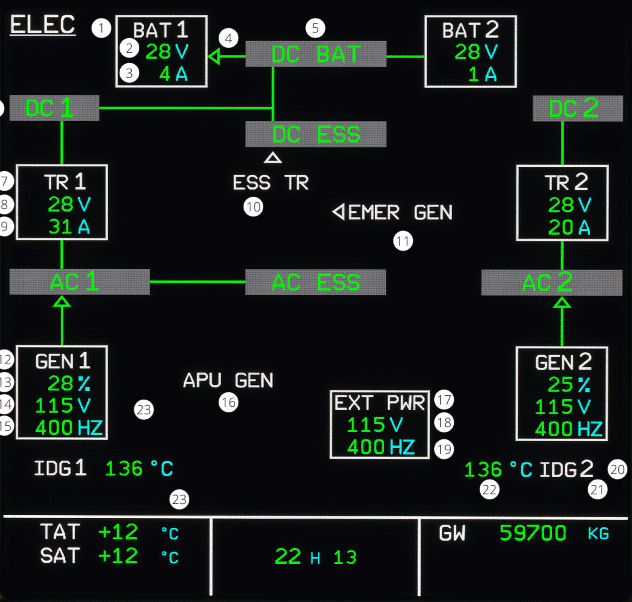
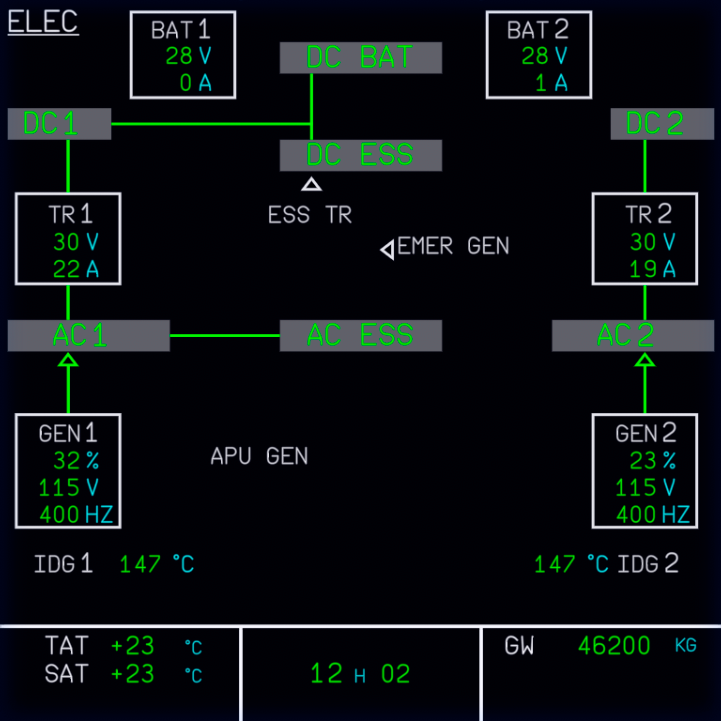
commit 2

diff --git a/src/Common/Displays/ECAM_SD/Shared/Base.tsx b/src/Common/Displays/ECAM_SD/Shared/Base.tsx
@@ -1,15 +1,87 @@
 import React from "react";
-import styled from "styled-components";
-import { createColorSheet } from "@/Theme/sheet";
+import styled, { useTheme } from "styled-components";
 
 const Frame = styled.g`
-  
+
 `;
 
 function Base () {
+  const color = useTheme().display;
+
   return (
-    <Frame>
-      <rect width={100} height={50} fill="white"/>
+    <Frame transform="translate(0 668)">
+      <path d="M4 0 H764 M256 0 v94 M512 0 v94"
+        strokeLinecap="round"
+        strokeWidth="3"
+        stroke={color.white}
+      />
+
+      <text
+        x="50"
+        y="28"
+      >TAT</text>
+      <text
+        x="50"
+        y="58"
+      >SAT</text>
+
+      <text
+        x="120"
+        y="28"
+        className="lime t24"
+      >+23</text>
+
+      <text
+        x="120"
+        y="58"
+        className="lime t24"
+      >+23</text>
+
+      <text
+        x="194"
+        y="28"
+        className="cyan t18"
+      >°C</text>
+
+      <text
+        x="194"
+        y="58"
+        className="cyan t18"
+      >°C</text>
+
+
+
+      <text
+        x="333"
+        y="58"
+        className="lime t26"
+      >12&emsp;&nbsp;02</text>
+
+      <text
+        x="380"
+        y="58"
+        className="cyan t18"
+      >H</text>
+
+
+
+      <text
+        x="540"
+        y="28"
+      >GW</text>
+
+      <text
+        x="694"
+        y="28"
+        textAnchor="end"
+        className="lime"
+      >46200</text>
+
+      <text
+        x="720"
+        y="28"
+        className="cyan t20"
+      >KG</text>
     </Frame>
   );
 }

diff --git a/src/Theme/sheet.ts b/src/Theme/sheet.ts
@@ -1,14 +1,26 @@
 import { theme } from "./theme";
+import { createGlobalStyle, CSSObject } from "styled-components";
 
-export function createColorSheet () {
-  const base: any = {
-    "text": {
-      fill: theme.display.white
-    }
-  };
-
-  for (const color in theme.display) {
-    base["text." + color] = { fill: theme.display[color as "white"] };
+const base: CSSObject = {
+  "text": {
+    fill: theme.display.white,
+    fontSize: "24px"
   }
-  return base;
+};
+
+for (const color in theme.display) {
+  base["." + color] = { fill: theme.display[color as "white"] };
 }
+for (const color in theme.display) {
+  base[".s" + color] = { stroke: theme.display[color as "white"] };
+}
+
+const fontsize = new Array(16).fill(1).map((_, index) => index * 2 + 10);
+
+for (const size of fontsize) {
+  base[".t" + size] = { fontSize: size + "px" };
+}
+
+console.log(base);
+
+export const GlobalStyle = createGlobalStyle(base);

diff --git a/src/Common/Displays/ECAM_SD/ELEC/index.tsx b/src/Common/Displays/ECAM_SD/ELEC/index.tsx
@@ -1,17 +1,20 @@
-import { createColorSheet } from "@/Theme/sheet";
+
 import React from "react";
 import styled from "styled-components";
 
+
 import Base from "../Shared/Base";
 
-const Frame = styled.svg(createColorSheet);
+const Frame = styled.svg`
+
+`;
 
 function ELEC () {
 
   return (
     <>
       <Frame viewBox="0 0 768 768" className="display">
-        <image y="15" href="/decals/elec.png"/>
+        <image href="/decals/elec.png" opacity="0.3"/>
 
         <Base/>
       </Frame>

diff --git a/src/App.tsx b/src/App.tsx
@@ -4,11 +4,13 @@ import { HashRouter } from "react-router-dom";
 import "./global.scss";
 
 import { theme } from "./Theme/theme";
+import { GlobalStyle } from "./Theme/sheet";
 import Router from "./Common/Routes/Router";
 
 function App() {
   return (
     <ThemeProvider theme={theme}>
+      <GlobalStyle/>
       <HashRouter>
         <Router/>
       </HashRouter>
